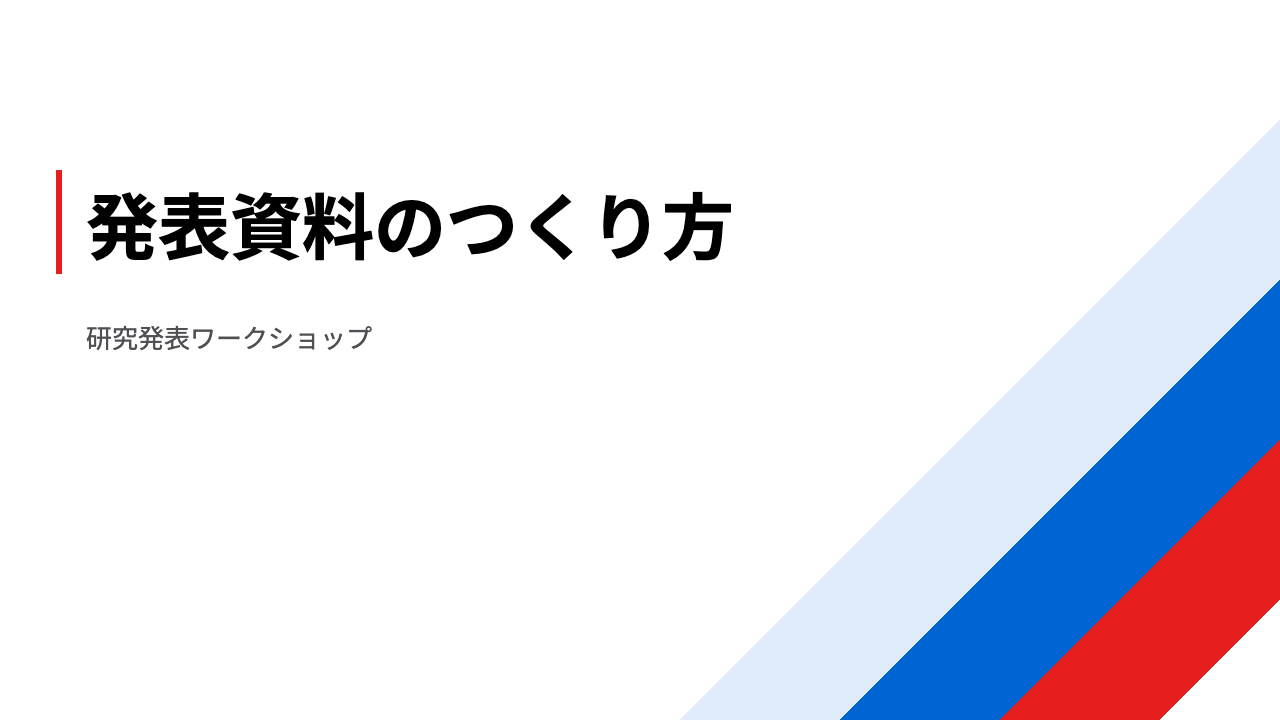
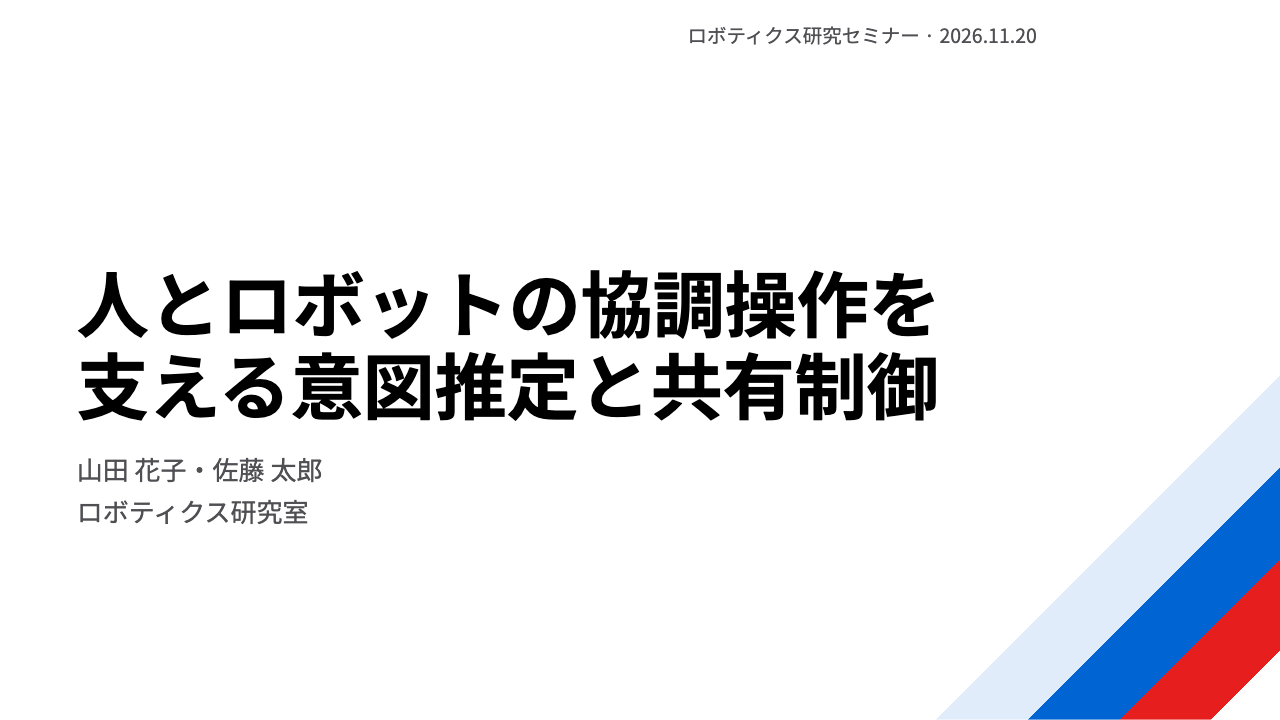
Update the standard cover gallery and remove the old variant

Changed region(s): [[0.0312, 0.1833, 1.0, 1.0], [0.0625, 0.6417, 0.25, 0.7333], [0.5312, 0.0306, 0.8125, 0.0611]]

diff --git a/designs/README.md b/designs/README.md
@@ -36,7 +36,6 @@ the selected theme's typography and colors.
 | :--- | :--- |
 | `title cover-plain` | Left-aligned title without the standard cover decoration. |
 | `title cover-photo` | Title and author information on the left, full-height photo on the right. |
-| `title cover-typographic` | Large title across a wide text area, with an accent graphic in the lower corner. |
 
 Use an H1 for the title, an optional paragraph before it for the event name,
 and a paragraph or `.author` block below it for the presenter and affiliation.
@@ -56,22 +55,16 @@ the cover stylesheet. New themes start with a neutral design.
 
 ## Cover and body gallery
 
-| Theme | Standard cover · `title` | Plain cover · `title cover-plain` | Body |
-| :--- | :--- | :--- | :--- |
-| `lab` | [![lab standard cover](previews/lab-title.png)](previews/lab-title.png) | [![lab plain cover](previews/lab-cover-plain.png)](previews/lab-cover-plain.png) | [![lab body slide](previews/lab-body.png)](previews/lab-body.png) |
-| `muji` | [![muji standard cover](previews/muji-title.png)](previews/muji-title.png) | [![muji plain cover](previews/muji-cover-plain.png)](previews/muji-cover-plain.png) | [![muji body slide](previews/muji-body.png)](previews/muji-body.png) |
-| `toshiba` | [![toshiba standard cover](previews/toshiba-title.png)](previews/toshiba-title.png) | [![toshiba plain cover](previews/toshiba-cover-plain.png)](previews/toshiba-cover-plain.png) | [![toshiba body slide](previews/toshiba-body.png)](previews/toshiba-body.png) |
-
-| Theme | Photo · `title cover-photo` | Typography · `title cover-typographic` |
-| :--- | :--- | :--- |
-| `lab` | [![Lab photo cover](previews/lab-cover-photo.jpg)](previews/lab-cover-photo.jpg) | [![Lab typographic cover](previews/lab-cover-typographic.png)](previews/lab-cover-typographic.png) |
-| `muji` | [![MUJI photo cover](previews/muji-cover-photo.jpg)](previews/muji-cover-photo.jpg) | [![MUJI typographic cover](previews/muji-cover-typographic.png)](previews/muji-cover-typographic.png) |
-| `toshiba` | [![Toshiba photo cover](previews/toshiba-cover-photo.jpg)](previews/toshiba-cover-photo.jpg) | [![Toshiba typographic cover](previews/toshiba-cover-typographic.png)](previews/toshiba-cover-typographic.png) |
+| Theme | Standard cover · `title` | Plain cover · `title cover-plain` | Photo cover · `title cover-photo` | Body |
+| :--- | :--- | :--- | :--- | :--- |
+| `lab` | [![Lab standard cover](previews/lab-title.png)](previews/lab-title.png) | [![Lab plain cover](previews/lab-cover-plain.png)](previews/lab-cover-plain.png) | [![Lab photo cover](previews/lab-cover-photo.jpg)](previews/lab-cover-photo.jpg) | [![Lab body slide](previews/lab-body.png)](previews/lab-body.png) |
+| `muji` | [![MUJI standard cover](previews/muji-title.png)](previews/muji-title.png) | [![MUJI plain cover](previews/muji-cover-plain.png)](previews/muji-cover-plain.png) | [![MUJI photo cover](previews/muji-cover-photo.jpg)](previews/muji-cover-photo.jpg) | [![MUJI body slide](previews/muji-body.png)](previews/muji-body.png) |
+| `toshiba` | [![Toshiba standard cover](previews/toshiba-title.png)](previews/toshiba-title.png) | [![Toshiba plain cover](previews/toshiba-cover-plain.png)](previews/toshiba-cover-plain.png) | [![Toshiba photo cover](previews/toshiba-cover-photo.jpg)](previews/toshiba-cover-photo.jpg) | [![Toshiba body slide](previews/toshiba-body.png)](previews/toshiba-body.png) |
 
 Open a thumbnail for the 1280 × 720 render. The
-[shared manuscript](previews/slide.md) compares the standard and plain covers,
-the two new layouts with a Japanese research title, and a body slide. The
-photo is a generated illustration for layout comparison.
+[shared manuscript](previews/slide.md) shows the standard, plain, and photo
+covers followed by a body slide. The standard and photo covers set the same
+Japanese research title. The photo is a generated illustration for comparison.
 
 To try the example, run `npm run marpx -- designs/previews/slide.md --overview`
 from the repository root. For the other rows, set the manuscript's frontmatter

diff --git a/designs/previews/slide.md b/designs/previews/slide.md
@@ -4,10 +4,17 @@ theme: lab
 ---
 
 <!-- _class: title -->
+<!-- _header: ロボティクス研究セミナー · 2026.11.20 -->
 
-# 発表資料のつくり方
+# 人とロボットの協調操作を支える意図推定と共有制御
 
-研究発表ワークショップ
+<div class="author">
+
+山田 花子・佐藤 太郎
+
+ロボティクス研究室
+
+</div>
 
 ---
 
@@ -23,23 +30,6 @@ theme: lab
 <!-- _header: 2026.11.20 -->
 
 <img class="cover-image" src="shared-control-cover.jpg" alt="木製の円筒を人の手とロボットのグリッパーが支える場面のイメージ">
-
-ロボティクス研究セミナー
-
-# 人とロボットの協調操作を支える意図推定と共有制御
-
-<div class="author">
-
-山田 花子・佐藤 太郎
-
-ロボティクス研究室
-
-</div>
-
----
-
-<!-- _class: title cover-typographic -->
-<!-- _header: 2026.11.20 -->
 
 ロボティクス研究セミナー
 
